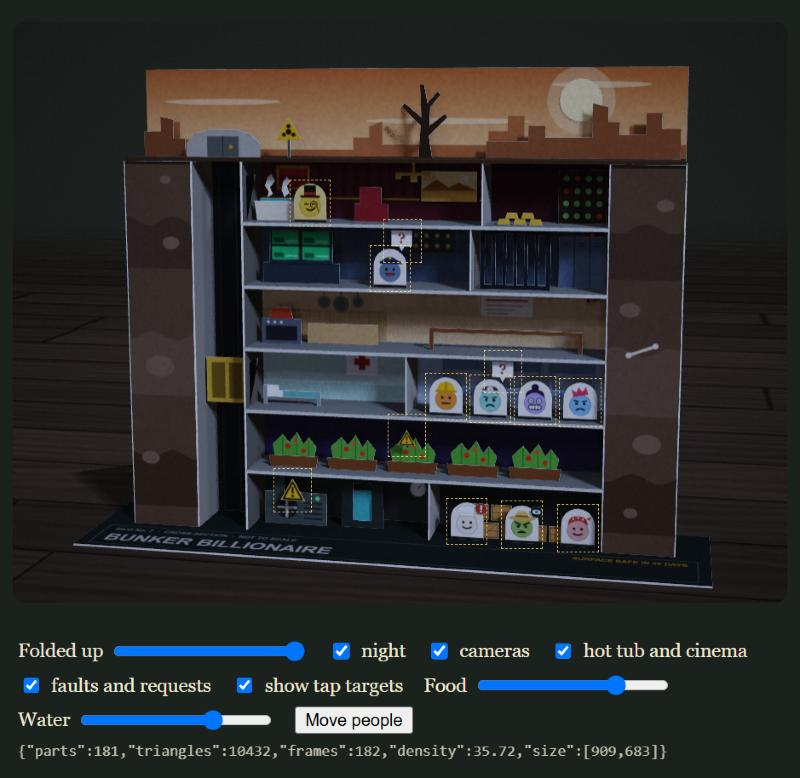
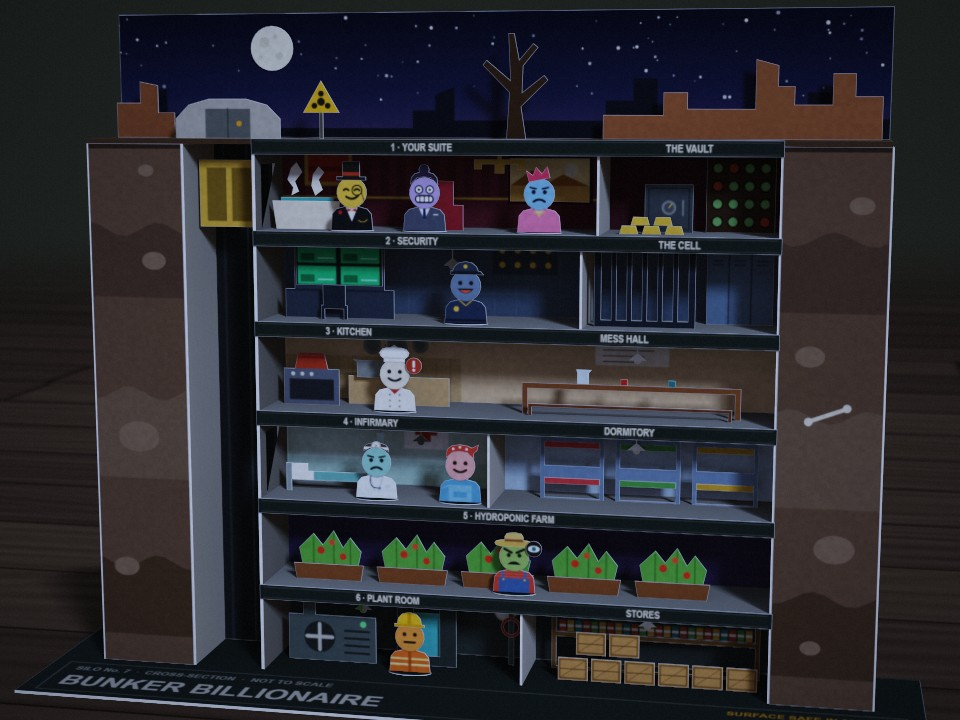
16-bunker: people as cut figures with hats and stands, a night sky, labelled floors, lamps and more in the rooms, closer camera (round 3)

diff --git a/builds/16-bunker-billionaire/src/ui/diorama.js b/builds/16-bunker-billionaire/src/ui/diorama.js
@@ -15,7 +15,7 @@ import { createPaperRenderer, QUALITY, LIGHT_RIG } from '../../engine/paperlight
 import { Rig } from '../../engine/fold.js';
 import { CardMesh } from '../../engine/cardmesh.js';
 import { buildAtlas } from '../../engine/atlas.js';
-import { faceMarkup } from './faces.js';
+import { faceMarkup, HATS } from './faces.js';
 
 // --- the model's measurements (cm) ---
 const FLOOR = 4.6;            // floor to floor
@@ -32,6 +32,39 @@ const OUT_D = 6.6;            // how far forward a pawn is lifted to move betwee
 const MOVING_PIXELS = 1.0e6;  // the moving picture is drawn at no more than this many pixels (stills are always full size)
 const MOODS = ['happy', 'content', 'flat', 'sour', 'angry', 'grin', 'dead'];
 const ROLES = ['security', 'chef', 'engineer', 'doctor', 'farmer', 'pa', 'cleaner', 'heir'];
+// The figure of a person: head and body in one cut piece, the face drawing from ui/faces.js printed on the head.
+const HEAD_Y = 1.95, HEAD_R = 0.78, SV = HEAD_R / 11.2;      // head centre and radius (cm); face drawing units to cm
+const sv = ([x, y]) => [(x - 16) * SV, HEAD_Y - (y - 23) * SV];   // a point of the face drawing, in the figure's cm
+const BODY = (() => {
+  const a0 = Math.atan2(1.258 - HEAD_Y, 0.36), a1 = Math.PI - a0, n = 16, arc = [];
+  for (let i = 0; i <= n; i++) { const a = a0 + ((a1 - a0) * i) / n; arc.push([Math.cos(a) * HEAD_R, HEAD_Y + Math.sin(a) * HEAD_R]); }
+  return [[-1.1, 0], [1.1, 0], [1.02, 0.88], [0.8, 1.14], ...arc, [-0.8, 1.14], [-1.02, 0.88]];
+})();
+// Each hat (or hair) is its own small piece glued over the head; its outline follows the drawing (face units).
+const HAT_PTS = {
+  security: [[5, 15], [29.5, 15], [27, 12.2], [25.5, 12.2], [24.2, 9], [21, 6.3], [16, 5.3], [11, 6.3], [7.8, 9], [6.5, 12.2], [5, 12.2]],
+  chef: [[8, 14], [24, 14], [24, 11.5], [26.5, 9.5], [27.2, 7], [25, 4.2], [21.5, 3], [19, 2.9], [16, 0.9], [13, 2.9], [10.5, 3], [7, 4.2], [4.8, 7], [5.5, 9.5], [8, 11.5]],
+  engineer: [[4.5, 15.2], [27.5, 15.2], [27.5, 12.8], [25.4, 12.8], [24.6, 8.5], [21.5, 5], [16, 3.6], [10.5, 5], [7.4, 8.5], [6.6, 12.8], [4.5, 12.8]],
+  doctor: [[6.2, 15], [11, 12.3], [16, 11.5], [21, 12.3], [25.8, 15], [25.2, 11.6], [23.5, 9.6], [20.5, 8.6], [19.2, 8.4], [18.6, 7.9], [17.3, 7.35], [16, 7.25], [14.7, 7.35], [13.4, 7.9], [12.8, 8.4], [11.5, 8.6], [8.5, 9.6], [6.8, 11.6]],
+  farmer: [[1.5, 13], [2.5, 14.6], [6, 15.5], [16, 15.8], [26, 15.5], [29.5, 14.6], [30.5, 13], [29.5, 11.4], [26, 10.5], [23, 10.3], [23, 8], [21.5, 5.5], [16, 4.5], [10.5, 5.5], [9, 8], [9, 10.3], [6, 10.5], [2.5, 11.4]],
+  pa: [[5.8, 17], [11, 12.2], [16, 11.5], [21, 12.2], [26.2, 17], [25.5, 12], [23, 9.2], [19.6, 8.1], [19.9, 6], [18.8, 3.4], [16, 2.2], [13.2, 3.4], [12.1, 6], [12.4, 8.1], [9, 9.2], [6.5, 12]],
+  cleaner: [[5.6, 17.5], [10.5, 13], [16, 12], [21.5, 13], [26.4, 17.5], [26.3, 13.5], [27.5, 12.2], [28.6, 11.6], [30, 6.5], [24.8, 9.2], [22, 7.9], [16, 7], [10, 7.9], [7, 10.2], [5.7, 13.5]],
+  heir: [[8, 13.5], [7, 5], [11.5, 9], [14.5, 3.5], [18, 8.8], [22.5, 4], [23.5, 12.5]].map(([x, y]) => { const t = (-8 * Math.PI) / 180, dx = x - 16, dy = y - 9; return [16 + dx * Math.cos(t) - dy * Math.sin(t), 9 + dx * Math.sin(t) + dy * Math.cos(t)]; }),
+  you: [[5, 14.2], [27, 14.2], [27, 11.6], [22.5, 11.6], [22.5, 0.8], [9.5, 0.8], [9.5, 11.6], [5, 11.6]],
+};
+const HAT_COL = { security: '#3b4654', chef: '#fffdf6', engineer: '#f2c230', doctor: '#5b4a3a', farmer: '#e3c877', pa: '#3a2f45', cleaner: '#c9503c', heir: '#d94f6a', you: '#25261f' };
+// What each job wears, drawn on the body (cm, y up, the body runs from y 0 to about 1.26).
+const UNIFORM = {
+  security: ['#33415a', (c) => { fillRect(c, -1.1, 0.16, 1.1, 0.28, '#1d2533'); disc(c, -0.48, 0.78, 0.13, '#e8c352'); line(c, [[-0.36, 1.25], [0, 0.95], [0.36, 1.25]], '#e8c352', 0.05); }],
+  chef: ['#f7f4ea', (c) => { for (const x of [-0.25, 0.25]) for (const y of [0.3, 0.6, 0.9]) disc(c, x, y, 0.05, '#9a9384'); c.fillStyle = '#c23b2c'; c.beginPath(); c.moveTo(-0.34, 1.26); c.lineTo(0.34, 1.26); c.lineTo(0, 0.92); c.fill(); }],
+  engineer: ['#e07a2e', (c) => { fillRect(c, -1.1, 0.42, 1.1, 0.52, '#f2e9a0'); fillRect(c, -1.1, 0.74, 1.1, 0.82, '#f2e9a0'); fillRect(c, -0.08, 0, 0.08, 1.2, '#b85f1f'); }],
+  doctor: ['#f4f6f2', (c) => { line(c, [[-0.36, 1.25], [-0.1, 0.45]], '#c9cfc8', 0.05); line(c, [[0.36, 1.25], [0.1, 0.45]], '#c9cfc8', 0.05); c.strokeStyle = '#2c3337'; c.lineWidth = 0.05; c.beginPath(); c.moveTo(-0.3, 1.2); c.quadraticCurveTo(-0.45, 0.55, 0.12, 0.6); c.stroke(); disc(c, 0.16, 0.6, 0.08, '#8c98a4'); fillRect(c, 0.42, 0.62, 0.72, 0.8, '#dfe5e0'); }],
+  farmer: ['#c9503c', (c) => { fillRect(c, -0.8, 0, 0.8, 0.82, '#4d6e9a'); line(c, [[-0.55, 0.8], [-0.6, 1.16]], '#4d6e9a', 0.14); line(c, [[0.55, 0.8], [0.6, 1.16]], '#4d6e9a', 0.14); disc(c, -0.55, 0.74, 0.05, '#e8c352'); disc(c, 0.55, 0.74, 0.05, '#e8c352'); for (let y = 0.9; y < 1.3; y += 0.14) line(c, [[-1.1, y], [1.1, y]], 'rgba(255,255,255,.25)', 0.03); }],
+  pa: ['#5a5f6b', (c) => { c.fillStyle = '#f7f4ea'; c.beginPath(); c.moveTo(-0.3, 1.26); c.lineTo(0.3, 1.26); c.lineTo(0, 0.6); c.fill(); c.fillStyle = '#2b3a63'; c.beginPath(); c.moveTo(-0.06, 1.2); c.lineTo(0.06, 1.2); c.lineTo(0.09, 0.72); c.lineTo(0, 0.62); c.lineTo(-0.09, 0.72); c.fill(); fillRect(c, 0.45, 0.85, 0.7, 0.9, '#f7f4ea'); }],
+  cleaner: ['#6aa9c9', (c) => { fillRect(c, -0.6, 0, 0.6, 0.95, '#8cc0d9'); fillRect(c, -0.35, 0.3, 0.35, 0.6, '#6aa9c9'); line(c, [[-0.6, 0.9], [-0.95, 0.75]], '#8cc0d9', 0.06); }],
+  heir: ['#e98aa8', (c) => { c.fillStyle = '#f2c9a6'; c.beginPath(); c.moveTo(-0.28, 1.26); c.lineTo(0.28, 1.26); c.lineTo(0, 0.82); c.fill(); c.strokeStyle = '#e8c352'; c.lineWidth = 0.05; c.beginPath(); c.arc(0, 1.25, 0.3, Math.PI * 1.15, Math.PI * 1.85); c.stroke(); }],
+  you: ['#1e1f24', (c) => { c.fillStyle = '#f7f4ea'; c.beginPath(); c.moveTo(-0.32, 1.26); c.lineTo(0.32, 1.26); c.lineTo(0, 0.5); c.fill(); c.fillStyle = '#c23b2c'; c.beginPath(); c.moveTo(-0.22, 1.16); c.lineTo(0, 1.08); c.lineTo(0.22, 1.16); c.lineTo(0.22, 0.98); c.lineTo(0, 1.06); c.lineTo(-0.22, 0.98); c.fill(); c.strokeStyle = '#e8c352'; c.lineWidth = 0.04; c.beginPath(); c.moveTo(0.35, 0.55); c.quadraticCurveTo(0.6, 0.4, 0.8, 0.6); c.stroke(); disc(c, -0.6, 0.95, 0.09, '#c23b2c'); }],
+};
 const FAULT_AT = { generator: [0, -7.8], pump: [0, -2.9], fridge: [3, -8.8], lights: [1, 0.8], cabinet: [2, -8.2] };   // floor, x
 
 // Where pawns stand: floor (6 is the surface) and a stretch of x.
@@ -80,6 +113,24 @@ const fillRect = (c, x0, y0, x1, y1, col) => { c.fillStyle = col; c.fillRect(x0,
 const line = (c, pts, col, w) => { c.strokeStyle = col; c.lineWidth = w; c.beginPath(); pts.forEach(([x, y], i) => (i ? c.lineTo(x, y) : c.moveTo(x, y))); c.stroke(); };
 const disc = (c, x, y, r, col) => { c.fillStyle = col; c.beginPath(); c.arc(x, y, r, 0, 6.2832); c.fill(); };
 
+// The far ruins on the horizon, printed on the day sky and the night sky alike.
+function ruins(c, col) {
+  c.fillStyle = col;
+  c.beginPath(); c.moveTo(-20, GROUND);
+  for (const [x, y] of [[-20, 1.6], [-18.6, 1.6], [-18.6, 2.5], [-17.4, 2.5], [-17.4, 1.2], [-13, 1.2], [-13, 0.5], [-4, 0.5], [-4, 1.4], [-2.8, 1.4], [-2.8, 2.2], [-1.8, 2.6], [-1.8, 0.9], [6, 0.9], [6, 1.9], [7.4, 1.9], [7.4, 3], [8.6, 3], [8.6, 1.4], [16, 1.4], [16, 2.3], [17.6, 2.3], [17.6, 1], [20, 1]]) c.lineTo(x, GROUND + y);
+  c.lineTo(20, GROUND); c.closePath(); c.fill();
+}
+// The night: a second sky, slotted in front of the first when the lights go out.
+function paintNight(c) {
+  const g = c.createLinearGradient(0, GROUND, 0, TALL);
+  g.addColorStop(0, '#463c5c'); g.addColorStop(0.35, '#232848'); g.addColorStop(1, '#0c1128');
+  c.fillStyle = g; c.fillRect(-EARTH, GROUND, EARTH * 2, TALL - GROUND);
+  let s = 7;
+  const r = () => { s = (s * 16807) % 2147483647; return s / 2147483647; };
+  for (let i = 0; i < 90; i++) { const x = -EARTH + r() * EARTH * 2, y = GROUND + 1.6 + r() * (TALL - GROUND - 1.8); disc(c, x, y, 0.03 + r() * r() * 0.08, `rgba(255,248,225,${(0.45 + r() * 0.55).toFixed(2)})`); }
+  ruins(c, '#141725');
+}
+
 // --- the print on the back board: sky, earth, and the wall of every room ---
 const WALLS = ['#3b4440', '#3d3154', '#cfe2d5', '#dcc096', '#52616f', '#7b3340'];   // plant, farm, medical, kitchen, security, suite
 function paintBack(c) {
@@ -89,10 +140,7 @@ function paintBack(c) {
   c.fillStyle = sky; c.fillRect(-EARTH, GROUND, EARTH * 2, TALL - GROUND);
   c.fillStyle = 'rgba(255,236,190,.55)';
   for (const [x, y, w] of [[-14, 31.6, 9], [3, 30.2, 12], [14, 32.8, 7]]) { c.beginPath(); c.ellipse(x, y, w / 2, 0.22, 0, 0, 6.2832); c.fill(); }
-  c.fillStyle = '#b97a4c';   // far ruins
-  c.beginPath(); c.moveTo(-20, GROUND);
-  for (const [x, y] of [[-20, 1.6], [-18.6, 1.6], [-18.6, 2.5], [-17.4, 2.5], [-17.4, 1.2], [-13, 1.2], [-13, 0.5], [-4, 0.5], [-4, 1.4], [-2.8, 1.4], [-2.8, 2.2], [-1.8, 2.6], [-1.8, 0.9], [6, 0.9], [6, 1.9], [7.4, 1.9], [7.4, 3], [8.6, 3], [8.6, 1.4], [16, 1.4], [16, 2.3], [17.6, 2.3], [17.6, 1], [20, 1]]) c.lineTo(x, GROUND + y);
-  c.lineTo(20, GROUND); c.closePath(); c.fill();
+  ruins(c, '#b97a4c');
   // earth either side of the shaft
   fillRect(c, -EARTH, 0, EARTH, GROUND, '#6a5340');
   for (const [y0, y1, col] of [[20.5, 24, '#5d4838'], [11, 15.5, '#75604a'], [2, 6.5, '#57422f']]) {
@@ -237,16 +285,64 @@ function buildParts() {
   add({ id: 'sun', h, d: 0.12, pts: circle(12.6, 4.1, 1.5, 28), col: '#fbe6ad', back: '#fbe6ad', hasBack: false });
   for (let k = 0; k < 8; k++) add({ id: 'grave' + k, move: true, h, d: 3.6, pts: [[0.22, 0], [0.5, 0], [0.5, 1.05], [0.9, 1.05], [0.9, 1.32], [0.5, 1.32], [0.5, 1.75], [0.22, 1.75], [0.22, 1.32], [-0.18, 1.32], [-0.18, 1.05], [0.22, 1.05]], col: '#efe7d3', at: [-6 + k * 1.1, 0] });
 
+  add({ id: 'nightsky', move: true, d: 0.1, pts: rectPts(-EARTH, GROUND, EARTH, TALL), col: '#1c2140', back: '#1c2140', print: { box: [-EARTH, GROUND, EARTH, TALL], draw: paintNight } });
+  add({ id: 'moon', move: true, h: GROUND, d: 0.22, pts: circle(-11.5, 4.6, 1.15, 28), col: '#efe9d2', back: '#efe9d2', hasBack: false, print: { box: [-12.65, 3.45, -10.35, 5.75], draw: (c) => { fillRect(c, -12.7, 3.4, -10.3, 5.8, '#efe9d2'); for (const [x, y, r] of [[-11.9, 4.9, 0.28], [-11.1, 4.2, 0.2], [-11.3, 5.2, 0.12], [-12.1, 4.15, 0.1]]) disc(c, x, y, r, '#d9d2b8'); } } });
+
+  // a label strip along the front of every floor, as on a museum model
+  const NAMES = [['6 · PLANT ROOM', -4.4, 'STORES', 8.7], ['5 · HYDROPONIC FARM', 1.9, '', 0], ['4 · INFIRMARY', -5.2, 'DORMITORY', 7.9], ['3 · KITCHEN', -6.3, 'MESS HALL', 7.6], ['2 · SECURITY', -3, 'THE CELL', 10.2], ['1 · YOUR SUITE', -2.5, 'THE VAULT', 10.6]];
+  NAMES.forEach(([l, lx, r, rx], fl) => {
+    const top = 0.03, bot = -SLAB - 0.5;
+    add({ id: 'fascia' + fl, h: floorH(fl + 1), d: DEPTH + 0.05, pts: rectPts(SHAFT - 0.05, bot, HALF + 0.05, top), z0: -0.03, z1: 0.03, col: '#26302a', back: '#26302a', print: { box: [SHAFT - 0.05, bot, HALF + 0.05, top], draw: (c) => {
+      fillRect(c, SHAFT - 0.1, bot - 0.1, HALF + 0.1, top + 0.1, '#26302a');
+      line(c, [[SHAFT + 0.15, top - 0.12], [HALF - 0.15, top - 0.12]], 'rgba(233,223,198,.35)', 0.025);
+      line(c, [[SHAFT + 0.15, bot + 0.1], [HALF - 0.15, bot + 0.1]], 'rgba(233,223,198,.35)', 0.025);
+      text(c, l, lx, bot + 0.2, 0.5, '#e9dfc6', undefined, 'center');
+      if (r) text(c, r, rx, bot + 0.2, 0.5, '#e9dfc6', undefined, 'center');
+    } } });
+  });
+  // a lamp hanging in each room
+  const DROP = 0.5;   // the cord is long enough for the shade to hang below the label strip
+  const LAMP = [[-0.03, 0], [0.03, 0], [0.03, -0.68], [0.48, -1.05], [0.2, -1.05], [0.17, -1.15], [0.1, -1.22], [0, -1.25], [-0.1, -1.22], [-0.17, -1.15], [-0.2, -1.05], [-0.48, -1.05], [-0.03, -0.68]].map(([a, b]) => [a, b < -0.5 ? b - DROP : b]);
+  for (const [fl, x] of [[0, -6.4], [0, 8.7], [2, -3.2], [2, 8], [3, -5], [3, 8], [4, -1.5]]) add({ id: `lamp${fl}:${x}`, h: floorH(fl + 1) - SLAB, d: 2, pts: LAMP.map(([a, b]) => [a + x, b]), col: '#b08a3a', back: '#8a6a2a', print: { box: [-0.5, -1.27 - DROP, 0.5, 0.02], share: 'lamp', draw: (c) => { fillRect(c, -0.55, -1.3 - DROP, 0.55, 0.05, '#b08a3a'); fillRect(c, -0.05, -0.7 - DROP, 0.05, 0.05, '#2c2f2a'); c.fillStyle = '#fff3c4'; c.beginPath(); c.arc(0, -1.05 - DROP, 0.2, Math.PI, 0); c.fill(); line(c, [[-0.4, -1.02 - DROP], [0.4, -1.02 - DROP]], '#7a5a22', 0.04); } }, at: [0, 0] });
+
+  // more in the rooms
+  h = floorH(0);
+  add({ id: 'pipe', h, d: 1.2, pts: rectPts(1.3, 0, 1.6, FLOOR - SLAB), col: '#59635d', back: '#4c5552' });
+  add({ id: 'valve', h, d: 1.3, pts: circle(1.45, 2.1, 0.55, 24), holes: [circle(1.45, 2.1, 0.38, 20)], col: '#b5482e', back: '#8e2a20' });
+  add({ id: 'shelf', h, d: 1.2, pts: rectPts(3.6, 0, 14.4, 3.9), holes: [rectPts(3.85, 0.15, 14.15, 1.75), rectPts(3.85, 2.0, 14.15, 3.6)], col: '#7a5a30', back: '#6a4c26' });
+  add({ id: 'tins', h, d: 1.1, pts: rectPts(3.85, 2.0, 14.15, 2.8), col: '#343c38', print: { box: [3.85, 2.0, 14.15, 2.8], draw: (c) => { fillRect(c, 3.85, 2, 14.15, 2.8, '#343c38'); const cols = ['#b5482e', '#c9a13b', '#2f8580', '#b5482e', '#5d9f52', '#c9a13b']; for (let k = 0; k < 24; k++) { const x = 4 + k * 0.42; fillRect(c, x, 2.02, x + 0.34, 2.62, cols[k % 6]); fillRect(c, x, 2.25, x + 0.34, 2.4, '#efe7d3'); } } } });
+  h = floorH(2);
+  add({ id: 'drip', h, d: 2.1, pts: [[-5.65, 0], [-5.0, 0], [-5.0, 0.12], [-5.27, 0.12], [-5.27, 3.3], [-4.95, 3.3], [-4.95, 3.42], [-5.7, 3.42], [-5.7, 3.3], [-5.38, 3.3], [-5.38, 0.12], [-5.65, 0.12]], col: '#9aa39c', back: '#9aa39c' });
+  add({ id: 'dripbag', h, d: 2.15, pts: [[-5.5, 2.45], [-5.15, 2.45], [-5.1, 3.25], [-5.55, 3.25]], col: '#cfe8e4', back: '#cfe8e4' });
+  for (let k = 0; k < 3; k++) { const x = 3 + k * 3.9; for (const y of [1.1, 3.0]) add({ id: `blanket${k}:${y}`, h, d: 1.56, pts: rectPts(x + 0.22, y - 0.3, x + 3.08, y + 0.02), col: ['#c94f4f', '#5d9f52', '#c9a13b'][k], back: '#9c3a3a' }); }
+  h = floorH(3);
+  add({ id: 'bench', h, d: 3.05, pts: [[2.6, 0], [2.8, 0], [2.8, 0.45], [12.6, 0.45], [12.6, 0], [12.8, 0], [12.8, 0.62], [2.6, 0.62]], col: '#74492b', back: '#5f3b22' });
+  add({ id: 'jug', h, d: 2.42, pts: [[5, 1.3], [5.6, 1.3], [5.6, 2.15], [5.75, 2.32], [4.95, 2.32], [5, 2.15]], col: '#d8e2e6', back: '#c4ced2' });
+  add({ id: 'mug1', h, d: 2.42, pts: rectPts(7.2, 1.3, 7.55, 1.9), col: '#c23b2c', back: '#a8331f' });
+  add({ id: 'mug2', h, d: 2.42, pts: rectPts(9.6, 1.3, 9.95, 1.9), col: '#2f8580', back: '#2a7671' });
+  add({ id: 'pot', h, d: 2.0, pts: [[-6.6, 1.5], [-5.2, 1.5], [-5.2, 2.3], [-5.0, 2.4], [-6.8, 2.4], [-6.6, 2.3]], col: '#8c8f86', back: '#75786f' });
+  h = floorH(4);
+  add({ id: 'deskchair', h, d: 2.95, pts: [[-8.2, 0], [-8.0, 0], [-8.0, 0.55], [-7.0, 0.55], [-7.0, 0], [-6.8, 0], [-6.8, 0.75], [-6.9, 0.75], [-6.9, 1.8], [-8.1, 1.8], [-8.1, 0.75], [-8.2, 0.75]], col: '#2a323a', back: '#232a31' });
+  h = floorH(5);
+  add({ id: 'safe', h, d: 1.6, pts: rectPts(8.2, 0, 10.6, 2.4), col: '#4c5355', print: { box: [8.2, 0, 10.6, 2.4], draw: (c) => { fillRect(c, 8.2, 0, 10.6, 2.4, '#4c5355'); c.strokeStyle = '#2f3436'; c.lineWidth = 0.06; c.strokeRect(8.4, 0.2, 2, 2); disc(c, 9.4, 1.25, 0.36, '#8c8f86'); disc(c, 9.4, 1.25, 0.24, '#5c6163'); line(c, [[9.4, 1.25], [9.55, 1.45]], '#e8c352', 0.05); line(c, [[10.1, 0.9], [10.1, 1.6]], '#8c8f86', 0.09); } } });
+
   // cameras: one in the corner of each room, with a red eye
   for (let fl = 0; fl < 6; fl++) add({ id: 'cam' + fl, move: true, h: floorH(fl), d: 0.6, pts: [[13.3, 3.45], [14.5, 3.75], [14.5, 4.15], [13.3, 3.95]], col: '#25261f', print: { box: [13.3, 3.45, 14.5, 4.15], share: 'cam', draw: (c) => { fillRect(c, 13.3, 3.45, 14.5, 4.15, '#25261f'); disc(c, 13.62, 3.74, 0.17, '#ff4a3a'); } } });
   // markers: a hazard flag for each machine that can break
   for (const sys in FAULT_AT) add({ id: 'flag:' + sys, move: true, h: floorH(FAULT_AT[sys][0]), d: 3.9, pts: [[-0.95, 0], [0.95, 0], [0, 1.7]], col: '#f2c230', at: [FAULT_AT[sys][1], 2.3], print: { box: [-0.95, 0, 0.95, 1.7], share: 'flag', draw: (c) => { fillRect(c, -0.95, 0, 0.95, 1.7, '#f2c230'); c.strokeStyle = '#25261f'; c.lineWidth = 0.14; c.beginPath(); c.moveTo(-0.72, 0.12); c.lineTo(0.72, 0.12); c.lineTo(0, 1.42); c.closePath(); c.stroke(); fillRect(c, -0.08, 0.55, 0.08, 1.05, '#25261f'); disc(c, 0, 0.36, 0.1, '#25261f'); } } });
 
-  // pawns: one card for every mood of every person; only one of them stands at a time
-  const arch = [[-1.2, 0], [1.2, 0], [1.2, 1.6], ...Array.from({ length: 11 }, (_, i) => { const a = ((i + 1) / 12) * Math.PI; return [Math.cos(a) * 1.2, 1.6 + Math.sin(a) * 1.2]; }), [-1.2, 1.6]];
-  const pawnPrint = (role, mood) => ({ box: [-1.2, 0, 1.2, 2.8], draw: (c) => { fillRect(c, -1.3, -0.1, 1.3, 2.9, role === 'you' ? '#f0d68a' : '#f6f1e2'); fillRect(c, -1.3, -0.1, 1.3, 0.2, '#25261f'); c.save(); c.translate(-1.09, 2.74); c.scale(0.068, -0.068); drawSVG(c, faceMarkup(role, mood)); c.restore(); } });
-  for (const role of ROLES) for (const mood of MOODS) add({ id: `pawn:${role}:${mood}`, move: true, pts: arch, z0: -0.03, z1: 0.03, col: '#f6f1e2', back: '#e9e2cc', print: pawnPrint(role, mood) });
-  for (const mood of ['smug', 'sour', 'dead']) add({ id: `pawn:you:${mood}`, move: true, pts: arch, z0: -0.03, z1: 0.03, col: '#f6f1e2', back: '#e9e2cc', print: pawnPrint('you', mood) });
+  // people: one cut figure for every mood of every person (only one stands at a time), a hat each, and a stand
+  const figure = (role, mood) => ({ box: [-1.15, -0.05, 1.15, HEAD_Y + HEAD_R + 0.05], draw: (c) => {
+    const [col, dress] = UNIFORM[role];
+    fillRect(c, -1.2, -0.1, 1.2, 1.4, col); dress(c);
+    c.save(); c.translate(-16 * SV, HEAD_Y + 23 * SV); c.scale(SV, -SV); drawSVG(c, faceMarkup(role, mood, false)); c.restore();
+  } });
+  for (const role of [...ROLES, 'you']) {
+    for (const mood of role === 'you' ? ['smug', 'sour', 'dead'] : MOODS) add({ id: `pawn:${role}:${mood}`, move: true, pts: BODY, z0: -0.03, z1: 0.03, col: UNIFORM[role][0], back: '#e9e2cc', print: figure(role, mood) });
+    const hp = HAT_PTS[role].map(sv), xs = hp.map((q) => q[0]), ys = hp.map((q) => q[1]);
+    add({ id: 'hat:' + role, move: true, pts: hp, z0: 0.03, z1: 0.075, col: HAT_COL[role], back: HAT_COL[role], print: { box: [Math.min(...xs) - 0.05, Math.min(...ys) - 0.05, Math.max(...xs) + 0.05, Math.max(...ys) + 0.05], draw: (c) => { c.save(); c.translate(-16 * SV, HEAD_Y + 23 * SV); c.scale(SV, -SV); drawSVG(c, HATS[role]); c.restore(); } } });
+    add({ id: 'base:' + role, move: true, pts: circle(0, 0, 1, 24).map(([x, y]) => [x * 1.15, y * 0.55]), z0: -0.02, z1: 0.02, col: role === 'you' ? '#7b2731' : '#2f3b34', back: '#2f3b34' });
+  }
   for (const role of ROLES) {
     add({ id: 'ask:' + role, move: true, pts: [[-0.75, 0.35], [-0.2, 0.35], [0, 0], [0.2, 0.35], [0.75, 0.35], [0.75, 1.5], [-0.75, 1.5]], col: '#fffdf6', print: { box: [-0.75, 0, 0.75, 1.5], share: 'ask', draw: (c) => { fillRect(c, -0.75, 0, 0.75, 1.5, '#fffdf6'); text(c, '?', 0, 0.58, 1.05, '#b5482e', '700 SIZEpx Georgia, serif', 'center'); } } });
     add({ id: 'alert:' + role, move: true, pts: circle(0, 0, 0.42, 16), col: '#b5482e', print: { box: [-0.42, -0.42, 0.42, 0.42], share: 'alert', draw: (c) => { fillRect(c, -0.42, -0.42, 0.42, 0.42, '#b5482e'); fillRect(c, -0.06, -0.08, 0.06, 0.26, '#fff'); disc(c, 0, -0.22, 0.07, '#fff'); } } });
@@ -264,7 +360,7 @@ export function createDiorama(root) {
   light.centre = [0, 15, 3]; light.radius = 27;
   // the window is in front and to the left, and low, so the back of each room is lit under its ceiling's shadow
   const DAY = { dir: [-0.6, 0.4, 0.72], col: [3.3, 3.05, 2.65], fill: 1 };
-  const NIGHT = { dir: [0.55, 0.5, 0.66], col: [0.42, 0.56, 0.95], fill: 0.3 };
+  const NIGHT = { dir: [0.5, 0.45, 0.74], col: [0.55, 0.72, 1.2], fill: 0.32 };
   light.key.size = 5;
   light.fill = [
     { dir: [0, 1, 0.1], col: [0.2, 0.22, 0.26], cone: 32 },
@@ -318,6 +414,14 @@ export function createDiorama(root) {
   const built = mesh.finish(['all']);
   renderer.setMesh(built);
   renderer.setAtlas(['all'], atlas.canvas);
+  // The lettering on the model uses the page's own type. If it was not loaded yet, print the sheet again
+  // when it arrives (same sizes, so the same places in the atlas).
+  if (document.fonts && document.fonts.load) {
+    Promise.all([document.fonts.load('600 40px "Barlow Condensed"'), document.fonts.ready]).then(() => {
+      const again = buildAtlas(prints, 2048, small ? 30 : 38, '#efe7d3');
+      renderer.setAtlas(['all'], again.canvas); renderer.restart(); dirty = true; kick();
+    }).catch(() => {});
+  }
   const packed = new Float32Array(rig.frames.length * 12);
 
   // --- what moves ---
@@ -338,6 +442,8 @@ export function createDiorama(root) {
     const open = opening.v > 0.985;
     // the lift, the water in the tank, what your comforts look like
     show('lift', true, 0, liftCar.h, 2.6);
+    const night = dusk.v > 0.5;          // the night sky slots in while the light is at its dimmest
+    show('nightsky', night); show('moon', night); show('sun', !night);
     show('water', true, 0, floorH(0) + 0.5 - 3.2 * (1 - water.v), 1.9);
     for (const id of ['tubwater', 'steam', 'steam2']) show(id, !!(v.policy && v.policy.tub));
     show('film', !!(v.policy && v.policy.cinema));
@@ -355,9 +461,12 @@ export function createDiorama(root) {
       const a = pawns[role];
       const moods = role === 'you' ? ['smug', 'sour', 'dead'] : MOODS;
       for (const m of moods) { const p = frameOf[`pawn:${role}:${m}`]; if (m === a.mood && a.s > 0.02 && open) place(p, a.x, a.h, a.d, a.s, a.lying); else hide(p); }
+      const stands = a.s > 0.02 && open;
+      if (stands) place(frameOf['hat:' + role], a.x, a.h, a.d, a.s, a.lying); else hide(frameOf['hat:' + role]);
+      if (stands && !a.lying) place(frameOf['base:' + role], a.x, a.h, a.d, a.s, true); else hide(frameOf['base:' + role]);
       if (role === 'you') continue;
-      const up = a.h + 2.95 * a.s, on = a.s > 0.9 && open && !a.lying && !a.path.length;
-      show('ask:' + role, on && a.ask, a.x + 0.9, up - 0.3, a.d + 0.25);
+      const up = a.h + 3.3 * a.s, on = a.s > 0.9 && open && !a.lying && !a.path.length;
+      show('ask:' + role, on && a.ask, a.x + 1.15, up - 0.3, a.d + 0.25);
       show('alert:' + role, on && a.badge === 'alert', a.x + 1.05, a.h + 2.45, a.d + 0.2);
       show('eye:' + role, on && a.badge === 'eye', a.x + 1.05, a.h + 2.45, a.d + 0.2);
     }
@@ -367,7 +476,7 @@ export function createDiorama(root) {
   function camera() {
     const w = canvas.width || 4, h = canvas.height || 3, a = w / h;
     const target = [0, 16.6, 2.4];
-    const dist = Math.max(99, 122 / a);
+    const dist = Math.max(86, 106 / a);     // as close as keeps the top of the sky and the front of the base in view
     const cy = Math.cos(cam.pitch);
     return { eye: [target[0] + Math.sin(cam.yaw) * cy * dist, target[1] + Math.sin(cam.pitch) * dist, target[2] + Math.cos(cam.yaw) * cy * dist], target, fovY: 0.42, aperture: 0.22, groups: ['all'], blueprint: 0, near: 10, far: 600 };
   }
@@ -377,9 +486,9 @@ export function createDiorama(root) {
     const m = renderer.viewProjOf(v), cw = box.clientWidth, ch = box.clientHeight;
     const proj = (p) => { const x = m[0] * p[0] + m[4] * p[1] + m[8] * p[2] + m[12], y = m[1] * p[0] + m[5] * p[1] + m[9] * p[2] + m[13], w = m[3] * p[0] + m[7] * p[1] + m[11] * p[2] + m[15]; return [(x / w * 0.5 + 0.5) * cw, (0.5 - y / w * 0.5) * ch, w]; };
     const list = [];
-    for (const role in pawns) { const a = pawns[role]; if (a.s > 0.5 && a.shown) list.push({ key: 'p:' + role, role, label: a.label, c: proj(at(a.x, a.h + (a.lying ? 0.2 : 1.4), a.d)), r: proj(at(a.x + 1.2, a.h + 1.4, a.d)) }); }
+    for (const role in pawns) { const a = pawns[role]; if (a.s > 0.5 && a.shown) list.push({ key: 'p:' + role, role, label: a.label, c: proj(at(a.x, a.h + (a.lying ? 0.2 : 1.55), a.d)), r: proj(at(a.x + 1.2, a.h + 1.55, a.d)) }); }
     for (const f of (view && view.faults) || []) { const [fl, x] = FAULT_AT[f.sys]; list.push({ key: 'f:' + f.sys, matter: f.i, label: 'Fault: ' + f.sys, c: proj(at(x, floorH(fl) + 3.1, 3.9)), r: proj(at(x + 1, floorH(fl) + 3.1, 3.9)) }); }
-    for (const role in pawns) { const a = pawns[role]; if (a.ask && a.s > 0.9) list.push({ key: 'a:' + role, matter: a.askI, label: 'A request', c: proj(at(a.x + 0.9, a.h + 3.4, a.d)), r: proj(at(a.x + 1.7, a.h + 3.4, a.d)) }); }
+    for (const role in pawns) { const a = pawns[role]; if (a.ask && a.s > 0.9) list.push({ key: 'a:' + role, matter: a.askI, label: 'A request', c: proj(at(a.x + 1.15, a.h + 3.75, a.d)), r: proj(at(a.x + 1.9, a.h + 3.75, a.d)) }); }
     const key = list.map((h) => h.key).join();
     if (key !== hitKey) {
       hitKey = key;

diff --git a/builds/16-bunker-billionaire/src/ui/faces.js b/builds/16-bunker-billionaire/src/ui/faces.js
@@ -10,7 +10,7 @@ export const TOKEN = {
   pa: '#bfa9dc', cleaner: '#e6aea3', heir: '#93c4e6', you: '#e8c352',
 };
 
-const HATS = {
+export const HATS = {
   // a peaked cap
   security: '<path d="M6.5 12.5 Q16 3 25.5 12.5 Z" fill="#3b4654"/><path d="M5 12.2 H27 L29.5 15 H5 Z" fill="#232b35"/><circle cx="16" cy="9" r="1.4" fill="#e8c352"/>',
   // a toque
@@ -46,10 +46,10 @@ const MOODS = {
 };
 
 // The drawing inside a face, in a 32 x 36 box: head, mood, glasses, hat. (The card silo prints this on its pawns.)
-export function faceMarkup(role, mood = 'flat') {
+export function faceMarkup(role, mood = 'flat', hat = true) {
   const col = TOKEN[role] || '#ddd';
   const glasses = role === 'pa' && mood !== 'grin' ? `<circle cx="12" cy="21" r="3.3" fill="none" stroke="${INK}" stroke-width="0.9"/><circle cx="20" cy="21" r="3.3" fill="none" stroke="${INK}" stroke-width="0.9"/><path d="M15.3 21 H16.7" stroke="${INK}" stroke-width="0.9"/>` : '';
-  return `<circle cx="16" cy="23" r="11.2" fill="${col}"/><circle cx="16" cy="23" r="11.2" fill="none" stroke="rgba(37,38,31,.28)" stroke-width="0.8"/>${MOODS[mood] || MOODS.flat}${glasses}${HATS[role] || ''}`;
+  return `<circle cx="16" cy="23" r="11.2" fill="${col}"/><circle cx="16" cy="23" r="11.2" fill="none" stroke="rgba(37,38,31,.28)" stroke-width="0.8"/>${MOODS[mood] || MOODS.flat}${glasses}${hat ? HATS[role] || '' : ''}`;
 }
 export function faceSVG(role, mood = 'flat') {
   return `<svg class="face" viewBox="0 0 32 36" aria-hidden="true">${faceMarkup(role, mood)}</svg>`;

diff --git a/index.html b/index.html
@@ -107,7 +107,7 @@
     <div>
       <h3>Bunker Billionaire: a game prototype</h3>
       <p>You run a luxury doomsday bunker in an old missile silo. Choose who comes in at the hatch, set the rations, keep yourself comfortable, and rule thirty days by bribery or by terror, with no way to see what any of them really think of you. The silo is a card model that folds up out of flat card.</p>
-      <p class="state">First version and two improvement rounds done.</p>
+      <p class="state">First version and three improvement rounds done.</p>
       <span class="open">Open the bunker</span>
     </div>
   </a>

diff --git a/builds/16-bunker-billionaire/ROUNDS.md b/builds/16-bunker-billionaire/ROUNDS.md
@@ -80,12 +80,29 @@ The tyrant made of code loses mostly by driving everyone out (42 to 77% of its r
 
 Checked: a whole 30-day run clicked through the real buttons at 375 px with every new thing used (policies 7 times, 34 cruel acts, requests granted and refused, faults patched, repaired and inspected): no errors. The hatch, the day, the standing orders sheet and an ending read at 375 px; the day read at 1200 px. Frame cost of the card model on this PC (Intel UHD 615), frames drawn back to back and ended with a 1 x 1 `readPixels`: 9.6 ms at 794 x 595 on phone settings, 24.6 ms at 1700 x 1275 on desktop settings (the moving picture is now capped at about a million pixels, so less than that); a finished still of 72 frames in 0.8 s at 1700 x 1275.
 
+## Round 3 (14 Nov 2026): polish the model
+
+Sam picked "Polish the model". Run on Claude Opus 5.5 (the earlier rounds were Fable 5.2).
+
+Judged from two full-size stills of the model (day, and night with the cameras on and faults showing), saved from the canvas at 1500 x 1125. The three weakest things:
+
+1. **The pawns read as gravestones.** Every person was the same round-topped arch, which is the exact shape of the graves on the surface. Now each person is a cut figure: a body in the job's clothes (security's navy and badge, the chef's whites and neckerchief, the engineer's hi-vis, the doctor's coat and stethoscope, the farmer's dungarees, the assistant's suit and tie, the cleaner's tabard, family in pink and gold, you in a dinner jacket with a red bow tie) and a head with the face drawing on it. The hat or hair is a separate piece glued over the head, cut to the shape of the drawing, so it stands proud in the light. Each figure stands in a small card stand (yours is red).
+2. **Night was not night.** The sky is printed on the back board, so at lights-out it stayed a sunset with the sun in it. Now a second sky card (deep blue, 90 stars, the ruins in silhouette) and a cut moon slot in front while the light is at its dimmest, and the sun is taken away. The moonlight is a little brighter and cooler.
+3. **The front looked like a bookshelf.** Plain grey floor edges, no names, and rooms that were mostly empty wall. Now every floor has a dark label strip along its front, as on a museum model ("1 · YOUR SUITE", "THE VAULT", down to "6 · PLANT ROOM", "STORES"); seven rooms have a hanging brass lamp; and there is more in the rooms: a shelf of tins behind the crates, a red valve wheel on a pipe in the plant room, a safe in the vault, a drip stand in the infirmary, blankets on the bunks, a bench, a jug, mugs and a pot in the mess and kitchen, a chair at the security desk.
+
+Also: the camera is closer (distance `max(86, 106 / aspect)`, was `max(99, 122 / aspect)`), so the model fills the box on a phone; and the atlas is printed again once the page's typeface has loaded, so the lettering on the model is in Barlow Condensed rather than whatever font was ready first.
+
+Fixed during the round: the first label lettering was too small to read (0.36 cm, now 0.5 cm); the first lamps hung behind the new label strips (the cord is now 0.5 cm longer).
+
+The model is now 233 parts and 16,800 triangles (was 181 and 10,400); the print atlas is still one 2048 sheet, at 30 px a cm (was 36). Frame cost on this PC (Intel UHD 615, frames drawn back to back, ended with a 1 x 1 `readPixels`): 10.2 ms at 794 x 595 on phone settings (was 9.6), 20.3 ms at 1500 x 1125 on desktop settings. Checked in the game at 375 px: a day, lights out (the night sky swapped in, staff out of sight in their bunks with the cameras off), and the next morning, with no errors. Rules unchanged.
+
 ## Not done, not checked
 
 - Still not played by a person from start to finish since round 2. The balance numbers come from players made of code, and the tyrant player is crude.
 - Sound has not been heard (this PC cannot play it back to me). The levels copy build 15, which Sam approved. No new sounds were added for the new actions beyond the stamp.
 - Not opened on a real phone. The card model has only been drawn by this PC's Intel chip.
 - The two paper checks from the fold card (paper rules, card through card) were not written for this model. The fold is solved in closed form (every piece is at height x the board's direction plus depth x forward), so pieces cannot change shape, but pieces that would collide in card (the pawns, the props near the folded-flat pose) are simply hidden until the model stands.
-- The flat picture (the fall-back) does not show requests or faults on it; they are still on the desk.
+- The flat picture (the fall-back) does not show requests or faults on it; they are still on the desk. It has not been given round 3's figures or night sky.
+- The model's lettering is small on a phone (about 7 px). It is decoration there; the desk names every room in full.
 - Left out of the outline on purpose: bugged rooms and the planted spy, air as its own resource, factions with names.
 - The hooks for the full game: a starting card is plain data (`src/data/cards.js`) and so is who came in at the hatch (`picks` in `newRun`), so Act 1 could deal both.

diff --git a/STATUS.md b/STATUS.md
@@ -1,6 +1,6 @@
 # Status
 
-Last updated: 14 Nov 2026 (Fable 5.2, build 16 Bunker Billionaire, round 2)
+Last updated: 14 Nov 2026 (Opus 5.5, build 16 Bunker Billionaire, round 3)
 
 ## Done
 - [x] Reviewed the 15 Maker Skool prompts and the video of results.
@@ -17,7 +17,7 @@ Last updated: 14 Nov 2026 (Fable 5.2, build 16 Bunker Billionaire, round 2)
 - **15-popup-book** – v1 plus five improvement rounds are done and working on `main`. "Where the river goes": five spreads, every mechanism in the brief, solved from the page angle; a spine with real leaf thickness; `book.check()` and `book.collisions()` test the paper rules and both pass. What is not checked (sound by ear, a real phone, dragging by hand) is near the bottom of `builds/15-popup-book/ROUNDS.md`.
   - Why 15 and not 06: Sam asked for the most complex build that needs no extra tools. 15 has the widest set of hard parts (six solved mechanisms, a book that turns, a renderer, five spreads of content) and can be checked properly on this PC; 06 is one deep shader that this PC's graphics chip can barely run.
 
-- **16-bunker-billionaire** – a game prototype from Sam's design outline ("Bunker Billionaire: Act 2", a Word file kept outside the repo), not a Maker Skool prompt. v1 and two rounds are working on `main`. Round 2 (14 Nov 2026) followed Sam playing it: the silo is now a card model drawn with the paper engines from build 15 (it folds up from flat); a day has standing orders, your comfort, up to three actions and things waiting for you; cruelty pays; and you choose who comes in at the hatch. Sam's steers so far: the game design leads; the picture must not be basic; there must be things to manage; being evil must be the fun path. He has not yet played round 2. Rounds and what is open are in `builds/16-bunker-billionaire/ROUNDS.md`.
+- **16-bunker-billionaire** – a game prototype from Sam's design outline ("Bunker Billionaire: Act 2", a Word file kept outside the repo), not a Maker Skool prompt. v1 and two rounds are working on `main`. Round 2 (14 Nov 2026) followed Sam playing it: the silo is now a card model drawn with the paper engines from build 15 (it folds up from flat); a day has standing orders, your comfort, up to three actions and things waiting for you; cruelty pays; and you choose who comes in at the hatch. Sam's steers so far: the game design leads; the picture must not be basic; there must be things to manage; being evil must be the fun path. Round 3 (14 Nov 2026, Opus 5.5, Sam chose "Polish the model"): people are cut figures in their job's clothes with hats and stands, night has its own sky, every floor is labelled, more in the rooms. He has not yet played rounds 2 or 3. Rounds and what is open are in `builds/16-bunker-billionaire/ROUNDS.md`.
 
 ## Site
 - GitHub Pages serves `main` from the root: https://samthurrell-dot.github.io/Fable-test/ . The home page is `index.html` at the top of the repo; add a card there for each new build. `.nojekyll` is on purpose.
@@ -34,4 +34,4 @@ Last updated: 14 Nov 2026 (Fable 5.2, build 16 Bunker Billionaire, round 2)
 |---|---|---|---|---|
 | 13-tree-seasons | Fable 5.2, default effort | Works; showcase piece | v1 + 5 (4 asked) | https://samthurrell-dot.github.io/Fable-test/builds/13-tree-seasons/ |
 | 15-popup-book | Fable 5.2, default effort | Works; showcase piece | v1 + 5 (4 asked) | https://samthurrell-dot.github.io/Fable-test/builds/15-popup-book/ |
-| 16-bunker-billionaire | Fable 5.2, default effort | Works; game prototype | v1 + 2 | https://samthurrell-dot.github.io/Fable-test/builds/16-bunker-billionaire/ |
+| 16-bunker-billionaire | Fable 5.2 (v1, rounds 1-2), Opus 5.5 (round 3) | Works; game prototype | v1 + 3 | https://samthurrell-dot.github.io/Fable-test/builds/16-bunker-billionaire/ |

diff --git a/builds/16-bunker-billionaire/TECHNIQUES.md b/builds/16-bunker-billionaire/TECHNIQUES.md
@@ -107,6 +107,12 @@ The recipe Sam approved on build 15: silent at rest, short shaped bursts of nois
 
 **Mistakes fixed.** The first camera cut the top of the board and the front of the base (distance is now `max(99, 122 / aspect)`). The first hot-tub water had its steam in the same blue card (steam is now two cream pieces). A key light from behind, as in build 15, would have been blocked by the back board (see ROUNDS.md, round 2).
 
+**Round 3 additions.**
+- **A figure from a face drawing.** The body and head are one outline (`BODY`: a trapezoid with an arc of the head circle); the face drawing from `ui/faces.js` is printed on the head with the transform `translate(-16 * SV, HEAD_Y + 23 * SV); scale(SV, -SV)`, where `SV` is the head radius in cm over 11.2 (the head radius in the drawing). The hat is a separate part on the same frame, 0.03 to 0.075 cm in front, cut to a polygon traced from the hat drawing (`HAT_PTS`, in drawing units, mapped by `sv()`), and printed with the hat drawing alone (`faceMarkup(role, mood, false)` leaves the hat off the face). Any of the outline that the drawing misses is filled with the hat's main colour, so the trace need not be exact.
+- **A scene change on a card model with no emission.** Card cannot glow and the renderer has one key light, so "night" is a second sky card and a moon that are shown while the light is at its dimmest (`dusk.v > 0.5`), with the key light moved and cooled. The swap is not seen because it happens in the dark.
+- **Lettering that waits for its typeface.** The atlas is drawn as soon as the model is made; once `document.fonts.load()` for the page's face resolves, it is drawn again with the same sizes (so the same places) and handed to the renderer, which then starts its still again.
+- Cost at the end of round 3: 233 parts, 16,800 triangles, 30 px a cm in one 2048 atlas; 10.2 ms a moving frame at 794 x 595 (low), 20.3 ms at 1500 x 1125 (high).
+
 ## URL controls
 
 `?card=` start at once · `?crew=` eight digits, who came in at the hatch · `?seed=` the same run · `?day=N` play to day N with the careful player (`?as=tyrant` for the other one) · `?view=day|done|night` step into the day · `?end=<ending id>` show an ending · `?still=1` no ambient motion · `?flat=1` the flat picture instead of the card model.
